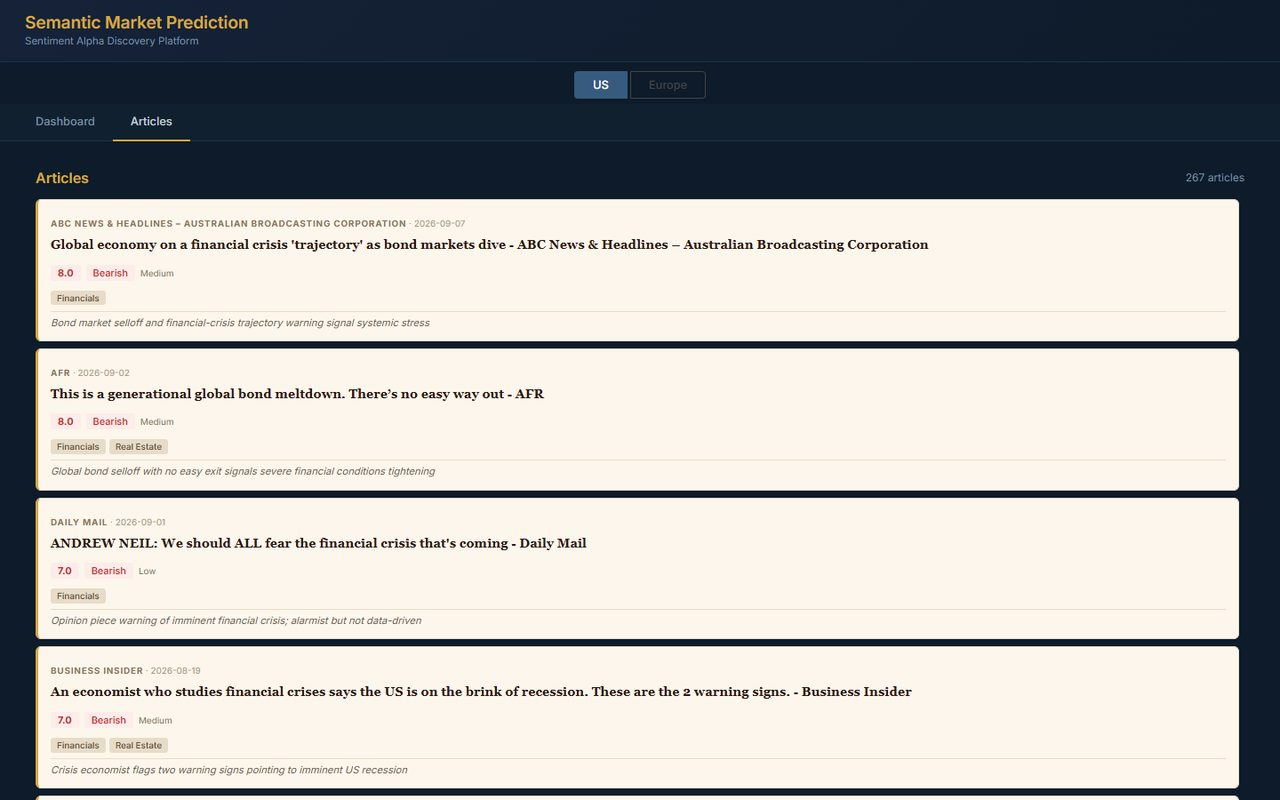
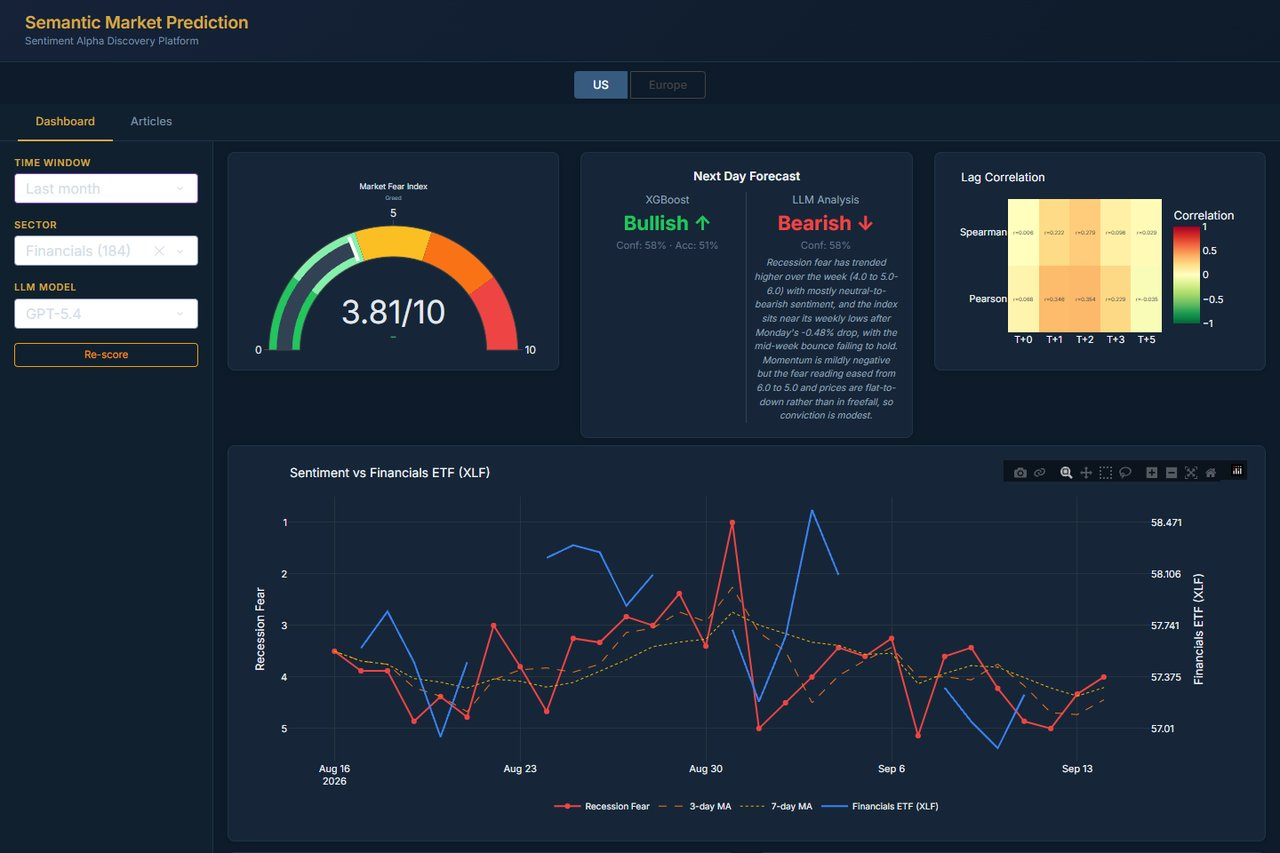
Semantic Market Prediction guided tour with captions, smaller neon

diff --git a/src/data.js b/src/data.js
@@ -67,12 +67,23 @@ export const projects = [
     blurb: 'Scores recession fear in financial news with an LLM ensemble, tracks it against the S&P 500 and Euro Stoxx 50, and predicts next-day direction. Built for the BNP Paribas equity and derivatives strategy team.',
     details: 'News comes from three sources and is cleaned before any model sees it. Two language models read each day\'s articles and give one fear score for the day, weighing a single major event above many routine ones; averaging the two models reduces model-specific bias. An XGBoost model trained on two years of VIX and index data turns the fear series into a next-day direction, shown side by side with a written forecast from the language model. Each day only ever sees data from previous days, so the backtest is honest.',
     url: 'https://github.com/AbdallahMelhem9/Semantic-Market-Prediction', live: 'https://semantic-market-prediction.onrender.com', video: null,
-    shots: ['demos/semantic-market-prediction/1.jpg', 'demos/semantic-market-prediction/2.jpg', 'demos/semantic-market-prediction/3.jpg', 'demos/semantic-market-prediction/4.jpg'] },
+    shots: [
+      { src: 'demos/semantic-market-prediction/1.jpg', caption: "The dashboard: a fear index read from the news, and tomorrow's call from two models." },
+      { src: 'demos/semantic-market-prediction/2.jpg', caption: "Recession fear in the news against the S&P 500, day by day." },
+      { src: 'demos/semantic-market-prediction/3.jpg', caption: "The same for Europe, against the Euro Stoxx 50." },
+      { src: 'demos/semantic-market-prediction/4.jpg', caption: "Filter by sector: the index and the chart follow that sector's ETF instead." },
+      { src: 'demos/semantic-market-prediction/5.jpg', caption: "Sector by sector, day by day: where the fear sits." },
+      { src: 'demos/semantic-market-prediction/6.jpg', caption: "Every article with its score, sector and the model's reasoning." },
+    ] },
   { slug: 'masef-helper', year: 2026, title: 'MASEF Helper', stackShort: 'Angular, Node', stack: 'Angular 20, Node, Express, SQLite, Claude Agent SDK',
     blurb: 'A study app that turns course PDFs into readable LaTeX sections, each with an AI lecture and its own chat. A PDF you can talk to.',
     details: 'Courses hold lessons, lessons hold the teacher\'s PDFs. Uploading a PDF outlines it into sections, transcribes each section faithfully to Markdown and LaTeX, and writes a short lecture under it. Every section has its own chat box, and there is a glossary and several reading modes. Built for my own MASEF year at Dauphine.',
     url: 'https://github.com/AbdallahMelhem9/masef-helper', live: 'https://masef-helper.onrender.com', video: null,
-    shots: ['demos/masef-helper/1.jpg', 'demos/masef-helper/2.jpg', 'demos/masef-helper/3.jpg'] },
+    shots: [
+      { src: 'demos/masef-helper/1.jpg', caption: "Courses, lessons, and the teacher's PDFs behind them." },
+      { src: 'demos/masef-helper/2.jpg', caption: "A course: one lesson per chapter, each with its PDF." },
+      { src: 'demos/masef-helper/3.jpg', caption: "A PDF you can read with explanations, notes and your own questions." },
+    ] },
   { slug: 'deep-learning-papers', year: 2025, title: 'Deep learning papers, rebuilt', stackShort: 'PyTorch', stack: 'PyTorch, Jupyter, YouTube',
     blurb: 'PyTorch re-implementations of DDPM, U-Net, VAE and a mini GPT, as runnable notebooks with accompanying videos.',
     details: 'Each paper gets a notebook that rebuilds the model from scratch and a video that walks through the paper and the code, including the maths. The videos sit on the rack below the monitors.',

diff --git a/src/ui.js b/src/ui.js
@@ -86,7 +86,11 @@ function detail(kind, i) {
     // `video` a YouTube id. The section only appears once one exists, with the links right under it.
     let demo = '';
     if (p.demo) demo = `<div class="embed"><video src="${esc(import.meta.env.BASE_URL + p.demo)}" autoplay muted loop playsinline preload="metadata" aria-label="Demo of ${esc(p.title)}"></video></div>`;
-    else if (p.shots && p.shots.length) demo = `<div class="embed slides" aria-label="Screens of ${esc(p.title)}">${p.shots.map((s, k) => `<img src="${esc(import.meta.env.BASE_URL + s)}" alt="" class="${k === 0 ? 'on' : ''}" loading="${k === 0 ? 'eager' : 'lazy'}">`).join('')}<span class="dots">${p.shots.map((s, k) => `<i class="${k === 0 ? 'on' : ''}"></i>`).join('')}</span></div>`;
+    else if (p.shots && p.shots.length) {
+      // Each shot is a path or { src, caption }; captions read like a guided tour.
+      const shots = p.shots.map(s => (typeof s === 'string' ? { src: s, caption: '' } : s));
+      demo = `<div class="embed slides" aria-label="Screens of ${esc(p.title)}">${shots.map((s, k) => `<img src="${esc(import.meta.env.BASE_URL + s.src)}" alt="" class="${k === 0 ? 'on' : ''}" loading="${k === 0 ? 'eager' : 'lazy'}">`).join('')}${shots.map((s, k) => `<span class="cap${k === 0 ? ' on' : ''}">${esc(s.caption)}</span>`).join('')}<span class="dots">${shots.map((s, k) => `<i class="${k === 0 ? 'on' : ''}"></i>`).join('')}</span></div>`;
+    }
     else if (p.video) demo = `<div class="embed"><iframe src="https://www.youtube-nocookie.com/embed/${esc(p.video)}?autoplay=1&mute=1&loop=1&playlist=${esc(p.video)}&controls=0&rel=0" title="Demo of ${esc(p.title)}" allow="autoplay; encrypted-media; picture-in-picture" allowfullscreen loading="lazy"></iframe></div>`;
     if (demo) demo = `<h4>Demo</h4><div class="demo">${demo}<button class="enlarge" type="button" data-enlarge>Click to enlarge</button></div>`;
     return { back: 'projects', eyebrow: p.year ? `Project, ${p.year}` : 'Project', title: p.title, meta: p.stack,
@@ -165,7 +169,7 @@ export function buildUI(root) {
   // Screenshot slideshows advance on a timer while a detail (or the enlarged view) is open.
   const SLIDE_MS = 2200;
   function runSlides(box) {
-    const imgs = [...box.querySelectorAll('img')], dots = [...box.querySelectorAll('.dots i')];
+    const imgs = [...box.querySelectorAll('img')], dots = [...box.querySelectorAll('.dots i')], caps = [...box.querySelectorAll('.cap')];
     if (!imgs.length) return null;
     // The box takes the shape of the screenshots, so nothing gets cropped.
     const fit = () => { if (imgs[0].naturalWidth) box.style.aspectRatio = `${imgs[0].naturalWidth} / ${imgs[0].naturalHeight}`; };
@@ -176,6 +180,7 @@ export function buildUI(root) {
       k = (k + 1) % imgs.length;
       imgs.forEach((im, i) => im.classList.toggle('on', i === k));
       dots.forEach((d, i) => d.classList.toggle('on', i === k));
+      caps.forEach((c, i) => c.classList.toggle('on', i === k));
     }, SLIDE_MS);
   }
   let slideTimer = null, lbTimer = null;

diff --git a/src/style.css b/src/style.css
@@ -139,6 +139,10 @@ body.ready #scene { opacity: 1; }
 .slides { position: relative; overflow: hidden; }
 .slides img { position: absolute; inset: 0; width: 100%; height: 100%; object-fit: cover; object-position: top; opacity: 0; transition: opacity .45s ease; }
 .slides img.on { opacity: 1; }
+.slides .cap { position: absolute; left: 0; right: 0; bottom: 0; padding: 1.6rem .8rem 1.2rem; font: 500 .82rem var(--body); color: #fff; text-align: center; background: linear-gradient(transparent, rgba(2, 6, 13, .88)); opacity: 0; transition: opacity .45s ease; pointer-events: none; }
+.slides .cap.on { opacity: 1; }
+.slides .cap:empty { display: none; }
+.lb-box .slides .cap { font-size: 1.05rem; padding-bottom: 1.5rem; }
 .slides .dots { position: absolute; left: 0; right: 0; bottom: 8px; display: flex; justify-content: center; gap: 6px; }
 .slides .dots i { width: 6px; height: 6px; border-radius: 50%; background: rgba(220, 235, 255, .45); transition: background .3s; }
 .slides .dots i.on { background: var(--cyan); box-shadow: 0 0 6px var(--cyan); }

diff --git a/src/scene/room.js b/src/scene/room.js
@@ -89,7 +89,7 @@ export function buildRoom(scene, lowTier) {
   // The glow is baked into the texture; the material sits just above the bloom threshold so the letters stay legible.
   const NEON = 1.04;
   const neonMat = new THREE.MeshBasicMaterial({ map: S.neonSign('welcome to', "Abdallah's trading desk"), transparent: true, toneMapped: false, color: hdr(0xffffff, NEON), depthWrite: false });
-  add(new THREE.PlaneGeometry(4.6, 1.265), neonMat, 0, 3.17, 0.03, A);
+  add(new THREE.PlaneGeometry(3.6, 0.99), neonMat, 0, 3.12, 0.03, A);
   const neonLight = point(0x4df3ff, 12, 7, 0, 3.1, 1.0, A);
   perFrame.push(t => {
     const on = t > 1.5 ? 1 : (t < 0.4 ? 0 : (Math.sin(t * 43) > -0.3 ? 1 : 0.15) * Math.min(1, t / 1.5));
